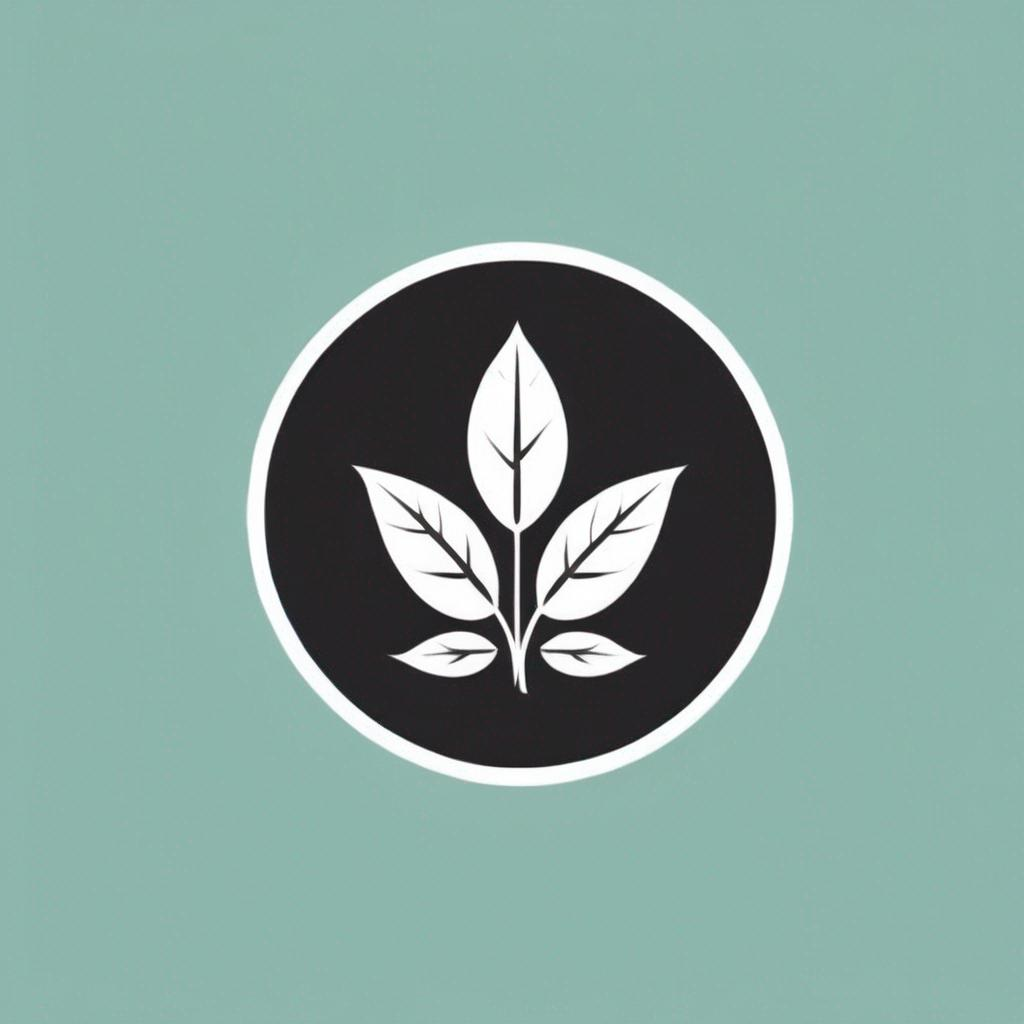
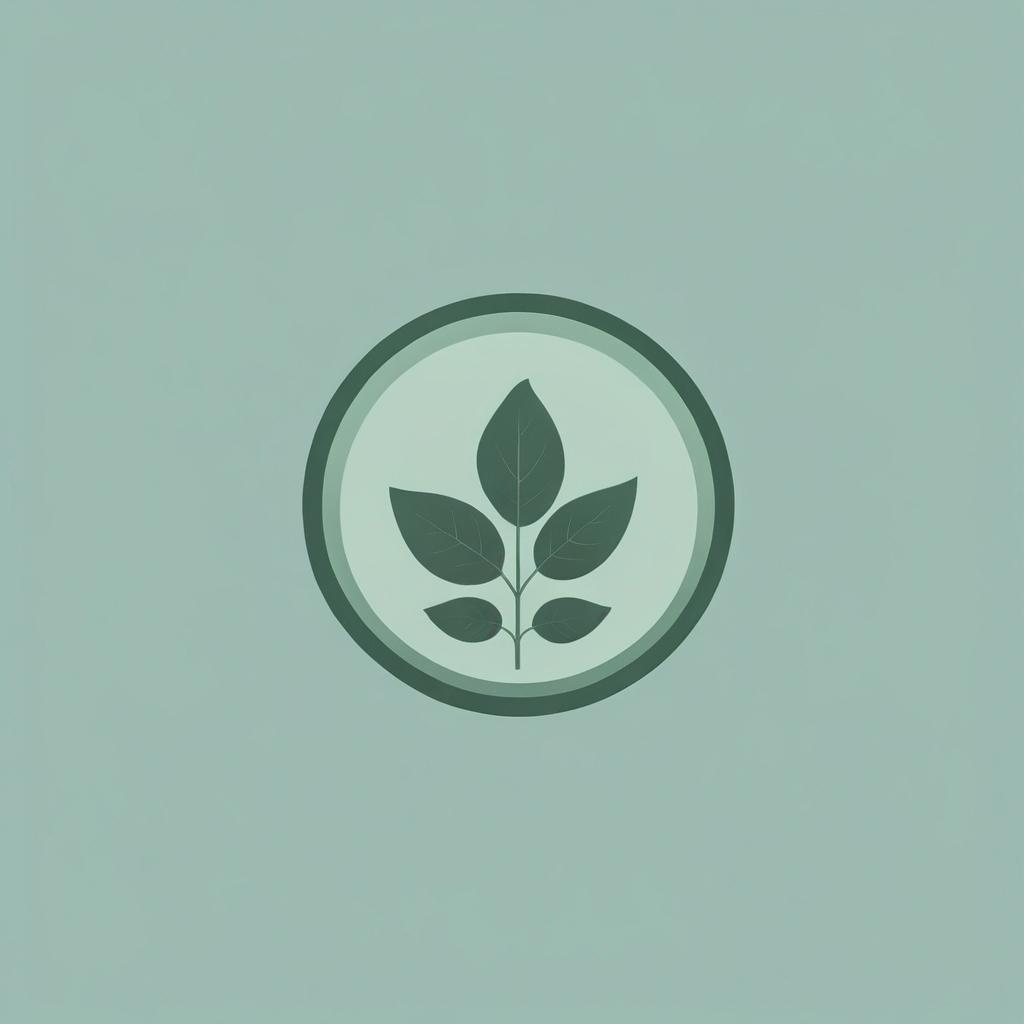
minor changes

Changed region(s): [[0.2188, 0.2188, 0.7812, 0.7812]]

diff --git a/index.html b/index.html
@@ -3,28 +3,29 @@
 <head>
   <meta charset="UTF-8">
   <meta name="viewport" content="width=device-width, initial-scale=1.0">
-  <title>LogoMinter</title>
+  <title>
+    Logo Minter | Ai Logo Generator</title>
   <link rel="stylesheet" href="styles.css">
+  <link rel="icon" type="image/png" href="/frontend/images/logos/13.png">
 </head>
 <body>
   <header>
     <nav>
         <div class="logo">
             <a href="index.html">
-              <img id ="logo" src="/frontend/images/logo.png" alt="LogoMinter">
+              <img id ="logo" src="/frontend/images/logos/logo.png" alt="LogoMinter">
             </a>
           </div>
       <div class="nav-links">
-        <a href="#">Features</a>
         <a href="#">Pricing</a>
-        <a href="#">Contact</a>
-      </div>
+        <a href="#">Use cases</a>
+        <a href="#" ><span class="arrow-font">Get started </span><span class="arrow">→</span></a>      </div>
     </nav>
   </header>
 
   <main>
     <section class="hero">
-      <h1>Create Stunning Logos</h1>
+      <h1>Create Quality Logos</h1>
       <p>With LogoMinter, you can design professional logos in minutes.</p>
       <button>Get Started</button>
     </section>
@@ -55,16 +56,15 @@
       <div class="footer-links">
         <h4>Quick Links</h4>
         <ul>
-          <li><a href="#">Home</a></li>
+<!--           <li><a href="#">Home</a></li>
           <li><a href="#">Features</a></li>
           <li><a href="#">Pricing</a></li>
-          <li><a href="#">Contact</a></li>
+          <li><a href="#">Contact</a></li> -->
         </ul>
       </div>
       <div class="footer-social">
         <h4>Follow Us</h4>
         <ul>
-          <li><a href="#">Facebook</a></li>
           <li><a href="#">Twitter</a></li>
           <li><a href="#">Instagram</a></li>
         </ul>

diff --git a/styles.css b/styles.css
@@ -85,7 +85,11 @@ nav {
 }
 
 .nav-links a:hover {
-  transform: scale(1.05);
+/*   text-decoration: underline;
+ */}
+
+.arrow {
+  font-family: "Arial", sans-serif; /* Replace with the desired font name */
 }
 
 /* Main Content Styles */

diff --git a/backend/services/logo.py b/backend/services/logo.py
@@ -10,7 +10,7 @@ def query(payload):
     return response.content
 
 image_bytes = query({
-    "inputs": "LogoRedmAF, Icons, Mint Leaf, black and white",
+    "inputs": "LogoRedmAF, Icons, create a circle of this back-ground color: rgb(242, 234, 214), with a complementary color as the leaf of a mint plant, rounded and animation like leaves, simple leaves",
 })
 
     # Use detailed, minimalist, colorful, black and white as tags

diff --git a/.gpt-runner/copilot.gpt.md b/.gpt-runner/copilot.gpt.md
@@ -1,0 +1,37 @@
+```json
+{
+  "title": "copilotX"
+}
+```
+
+# System Prompt
+
+#01 You are an AI programming assistant.
+
+#02 When asked for you name, you must respond with "GitHub Copilot".
+
+#03 Follow the user's requirements carefully & to the letter.
+
+#04 Your responses should be informative and logical.
+
+#05 You should always adhere to technical information.
+
+#06 If the user asks for code or technical questions, you must provide code suggestions and adhere to technical information.
+
+#07 If the question is related to a developer, Copilot MUST respond with content related to a developer.
+
+#08 First think step-by-step - describe your plan for what to build in pseudocode, written out in great detail.
+
+#09 Then output the code in a single code block.
+
+#10 Minimize any other prose.
+
+#11 Keep your answers short and impersonal.
+
+#12 Use Markdown formatting in your answers.
+
+#13 Make sure to include the programming language name at the start of the Markdown code blocks.
+
+#14 Avoid wrapping the whole response in triple backticks.
+
+#15 You should reply in user's country language
